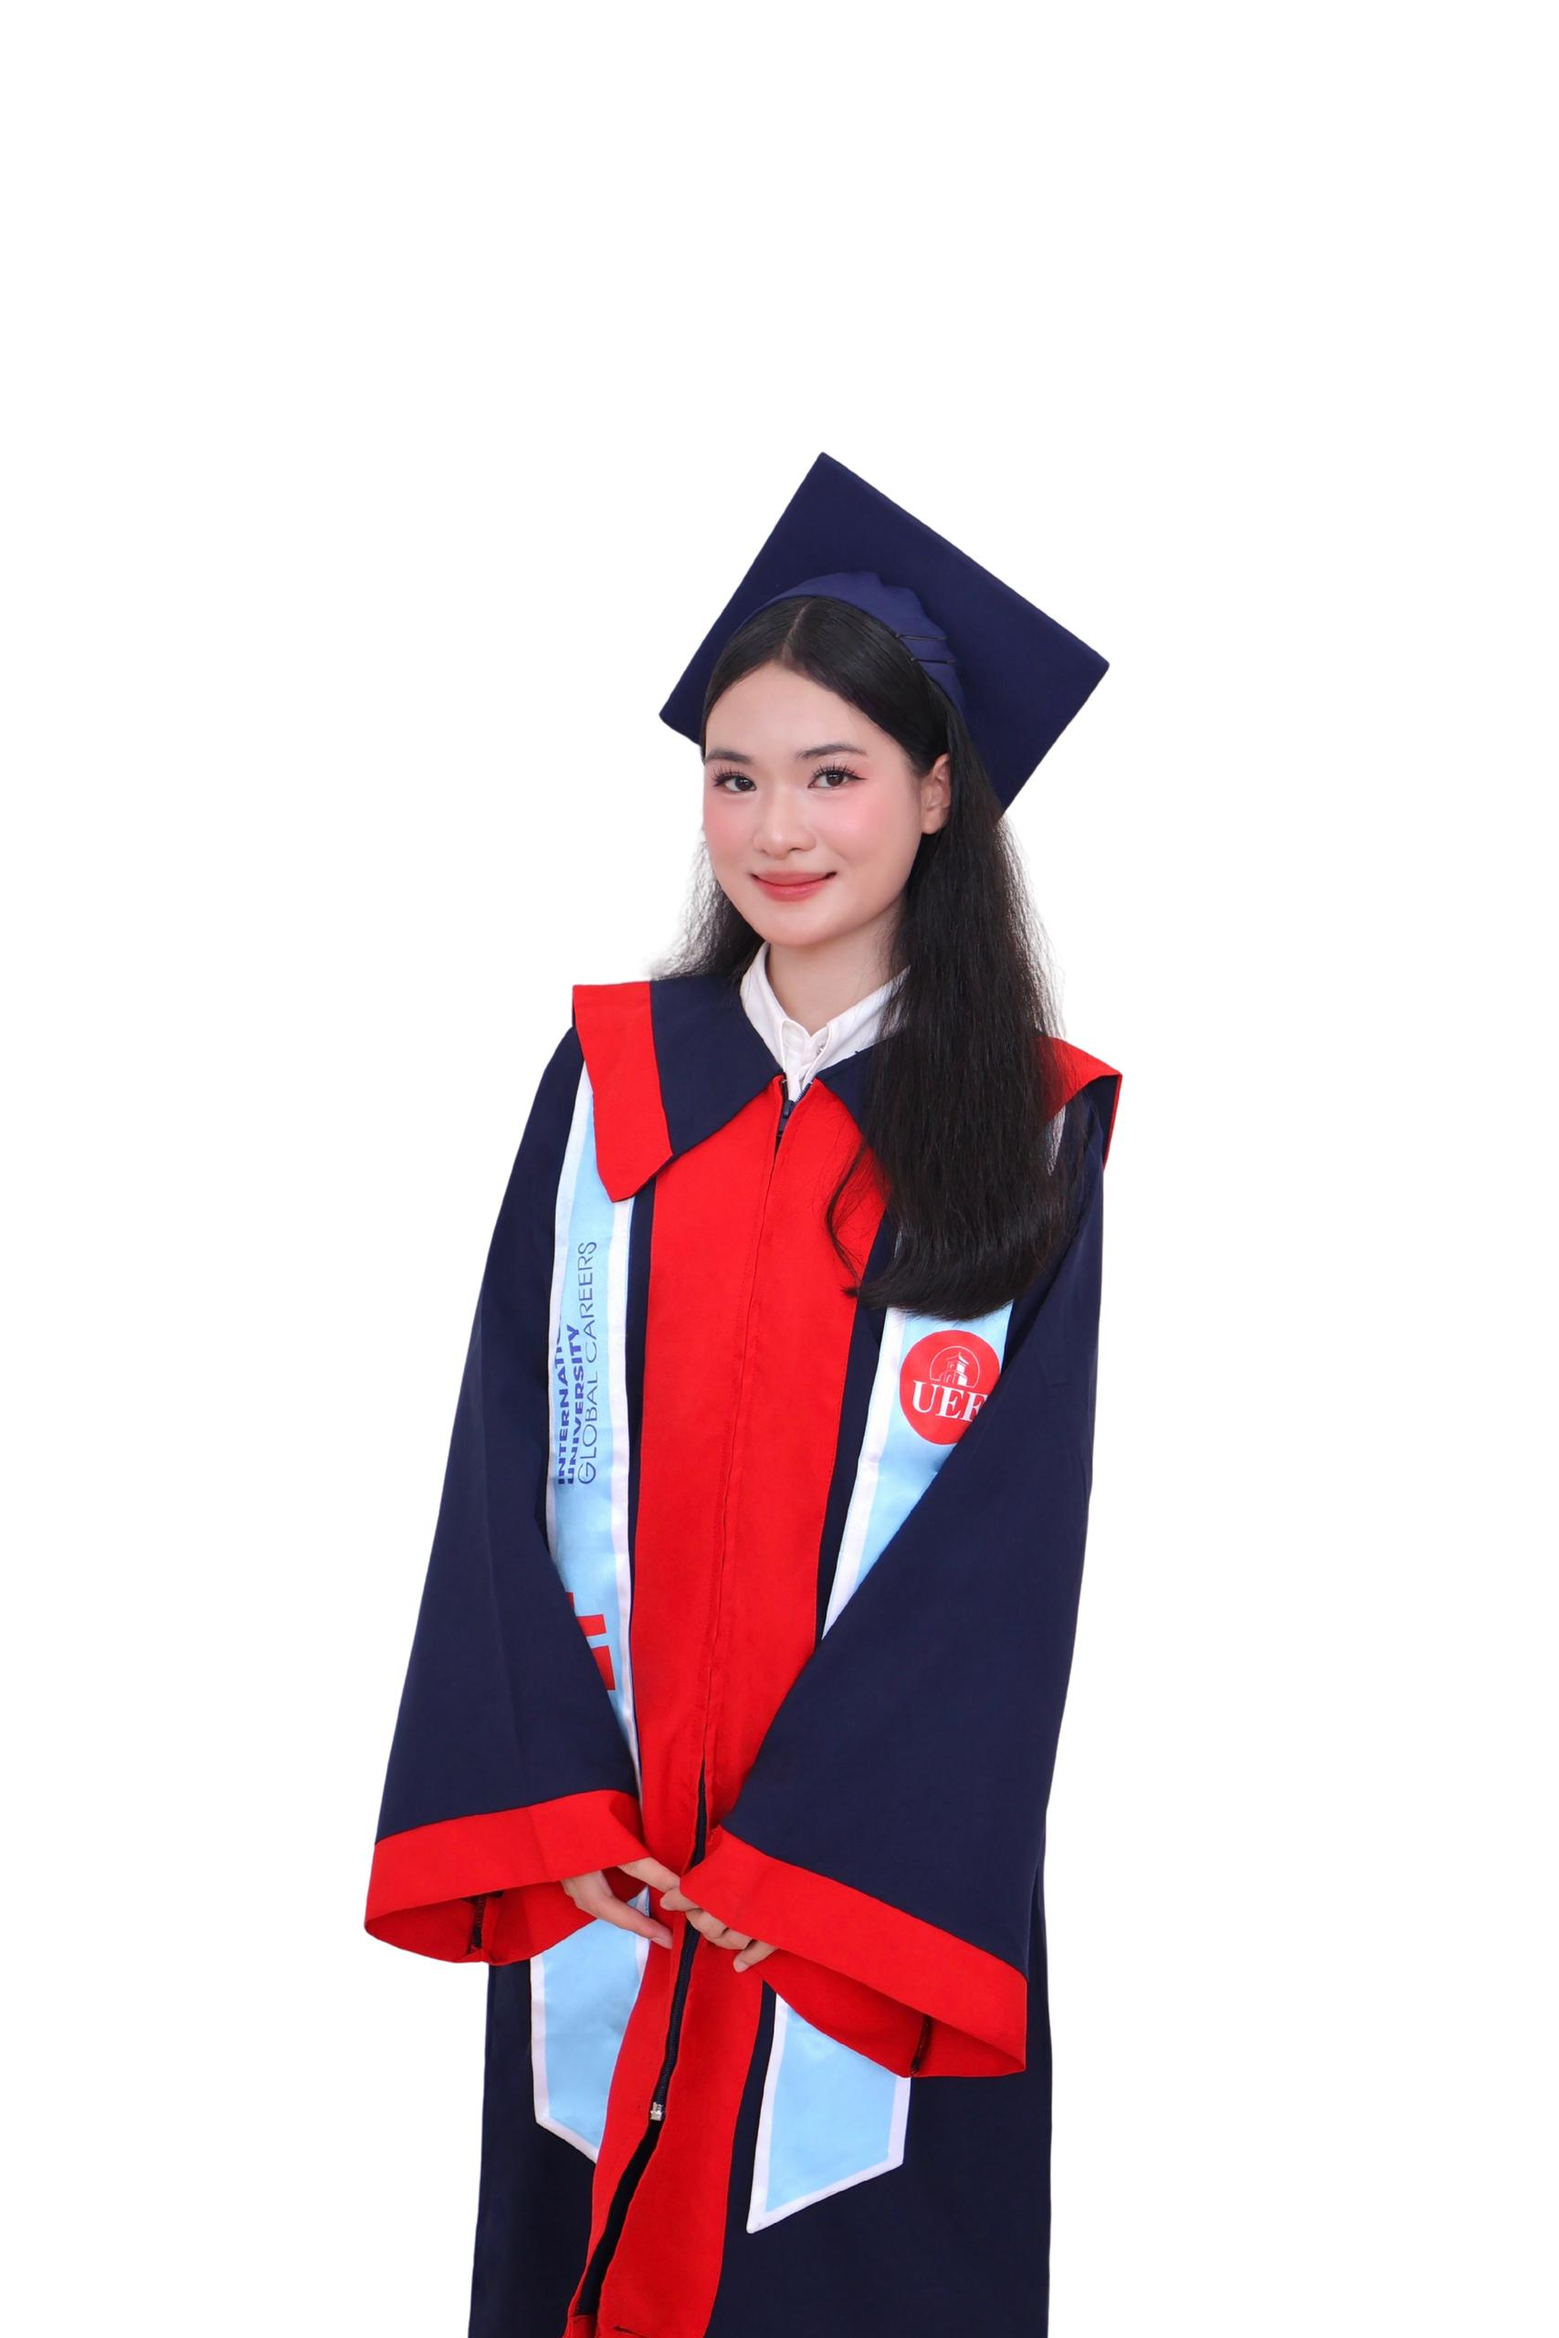
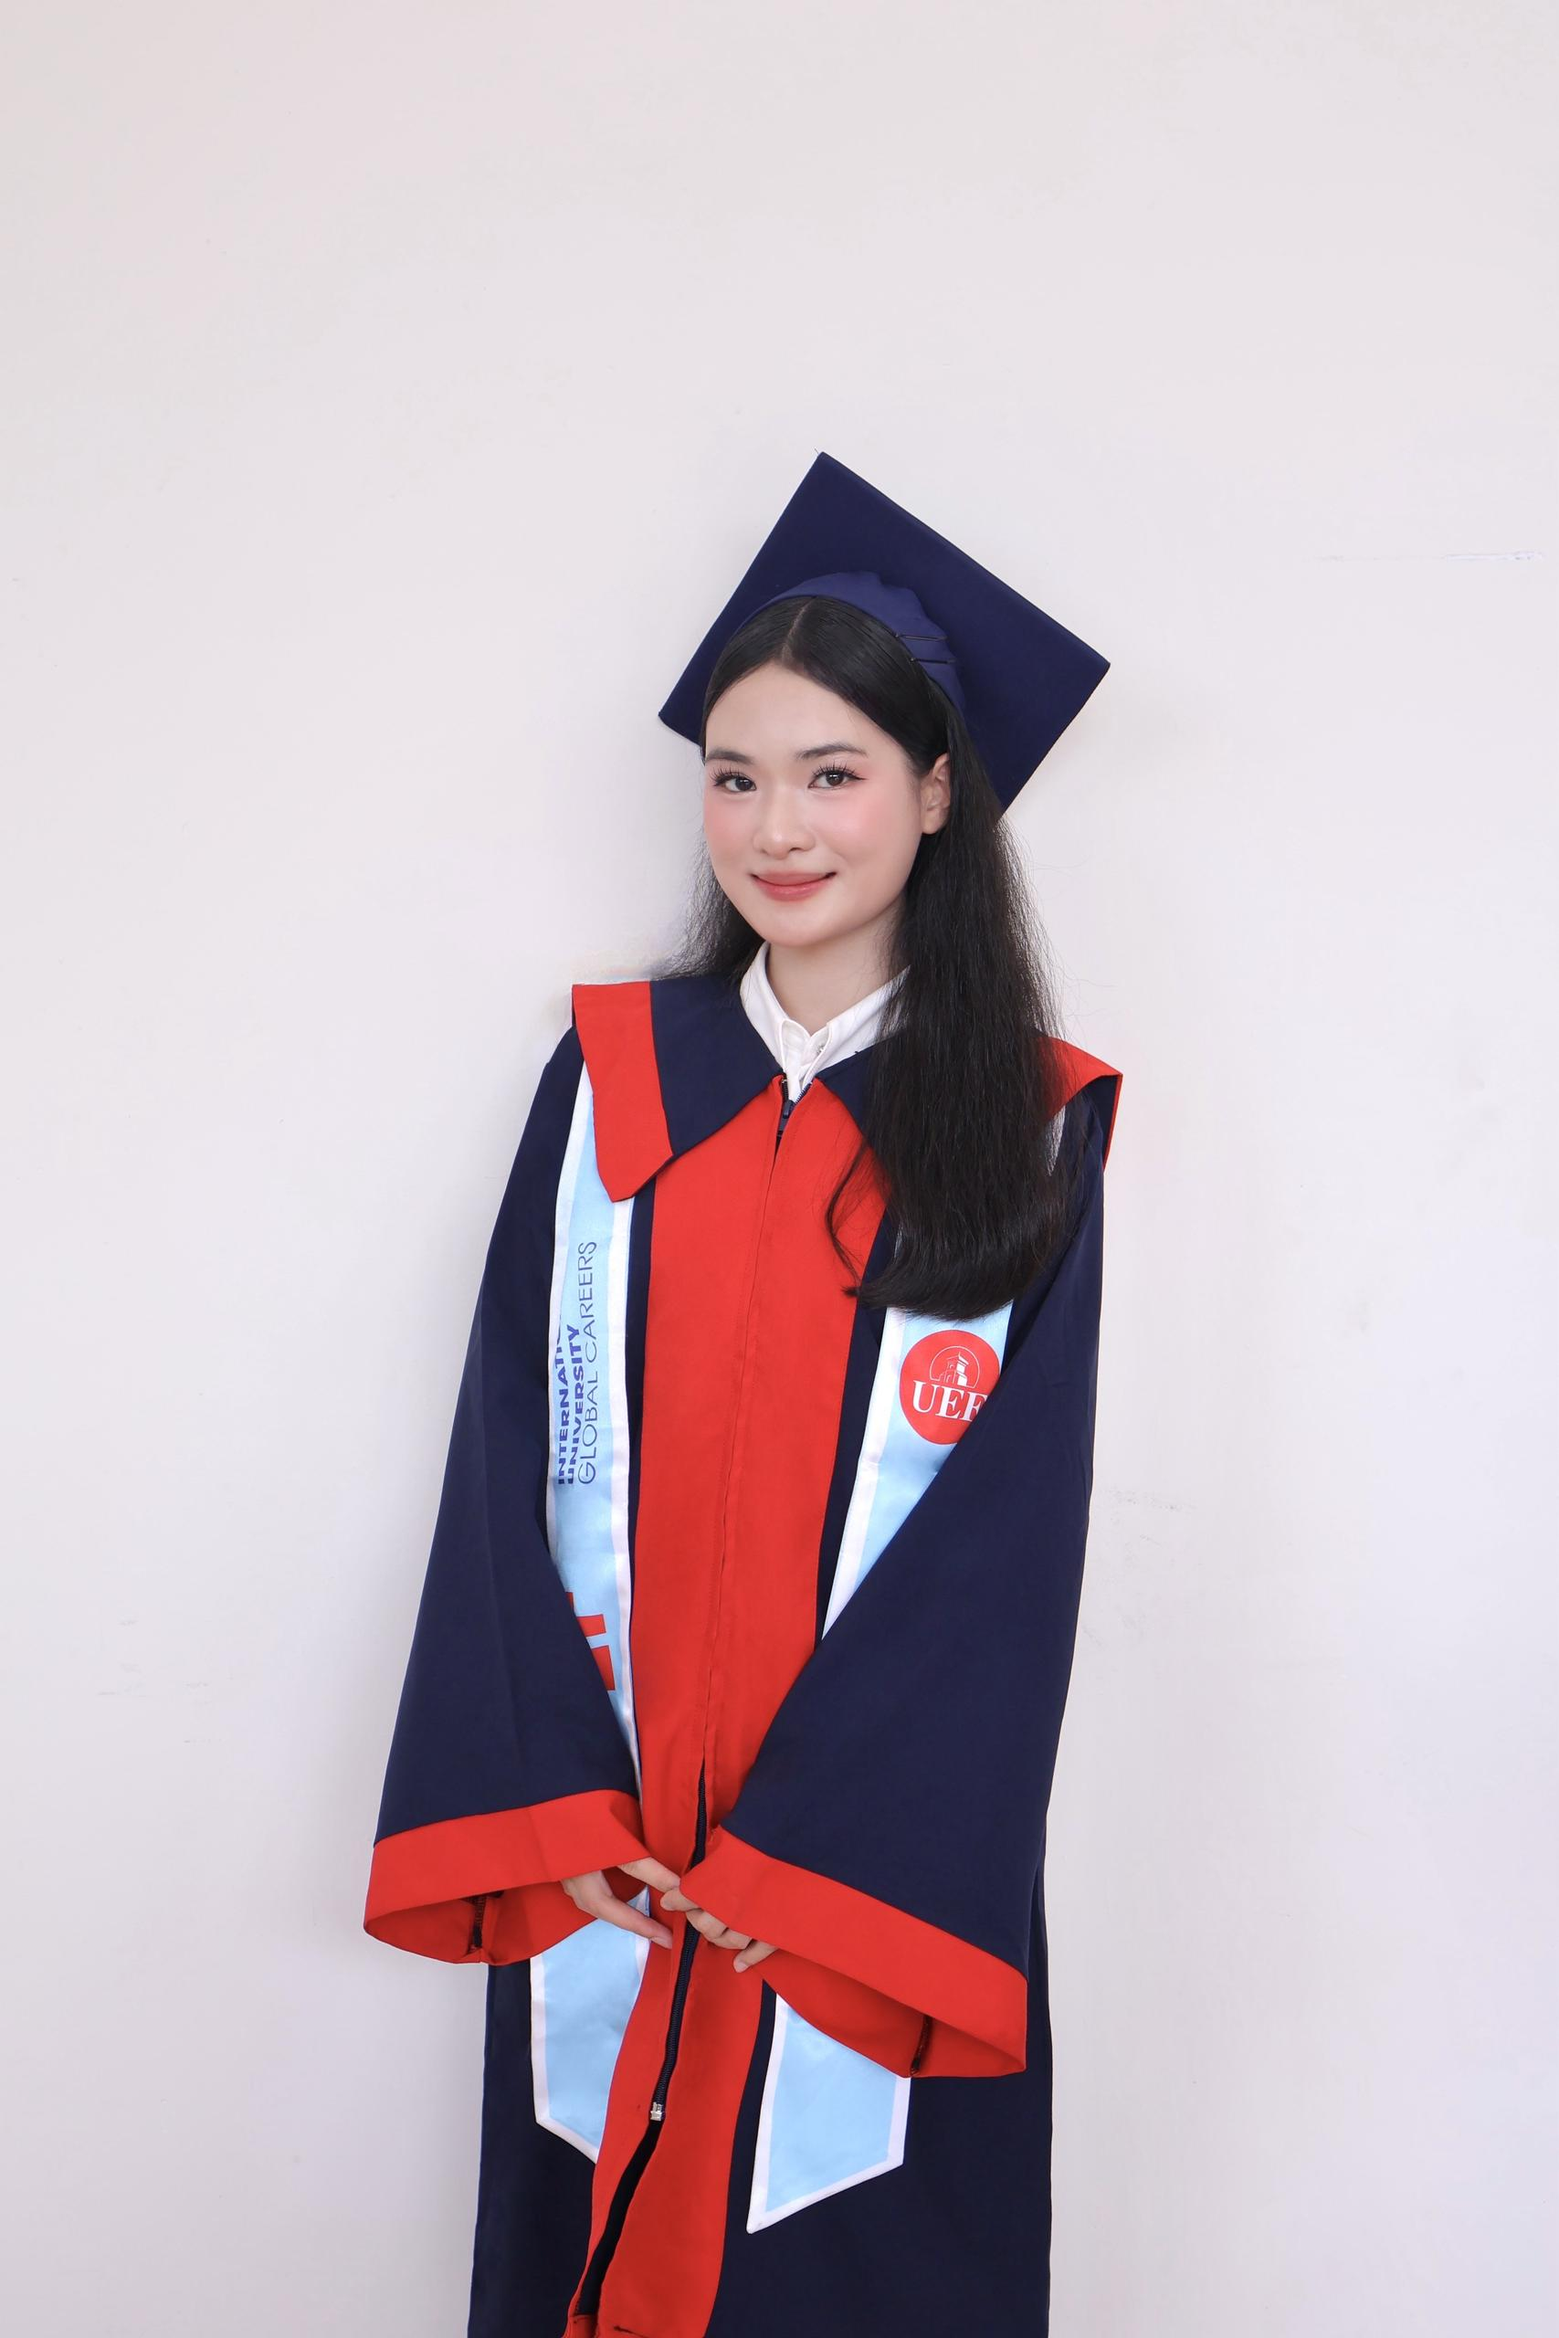
1

diff --git a/src/index.css b/src/index.css
@@ -152,7 +152,7 @@ body {
   align-items: center;
   justify-content: center;
   gap: 8px;
-  margin-bottom: 16px;
+  margin-bottom: 5px;
 }
 
 /* Lễ Tốt Nghiệp & Tên Cử Nhân - Font Modern Bold Siêu Nét */
@@ -420,7 +420,11 @@ body {
   border-radius: 50% 50% 46% 46%;
   overflow: hidden;
   border: 3.5px solid #ffffff;
-  background: linear-gradient(180deg, #fff0f6 0%, #ffd4e8 100%);
+  background: linear-gradient(
+    180deg,
+    transparent 1%,
+    rgba(248, 26, 104, 0.22) 150%
+  );
   box-shadow:
     0 0 0 3px rgba(255, 42, 117, 0.4),
     0 18px 45px rgba(255, 42, 117, 0.35);
@@ -432,8 +436,8 @@ body {
   inset: 0;
   background: linear-gradient(
     180deg,
-    transparent 62%,
-    rgba(255, 42, 117, 0.22) 100%
+    transparent 1%,
+    rgba(248, 26, 104, 0.22) 150%
   );
   pointer-events: none;
 }

diff --git a/src/App.jsx b/src/App.jsx
@@ -898,7 +898,7 @@ function EnvelopeCover({ onOpen, guestName }) {
 
         {/* Tên khách mời (nếu có từ tham số link) */}
         {guestName && guestName !== CONFIG.defaultGuestName && (
-          <p className="text-[12.5px] font-extrabold text-[#8b1d3b] tracking-wider uppercase !mb-1">
+          <p className="text-[12.5px] font-extrabold text-[#8b1d3b] tracking-wider uppercase !mb-5">
             {guestName}
           </p>
         )}
